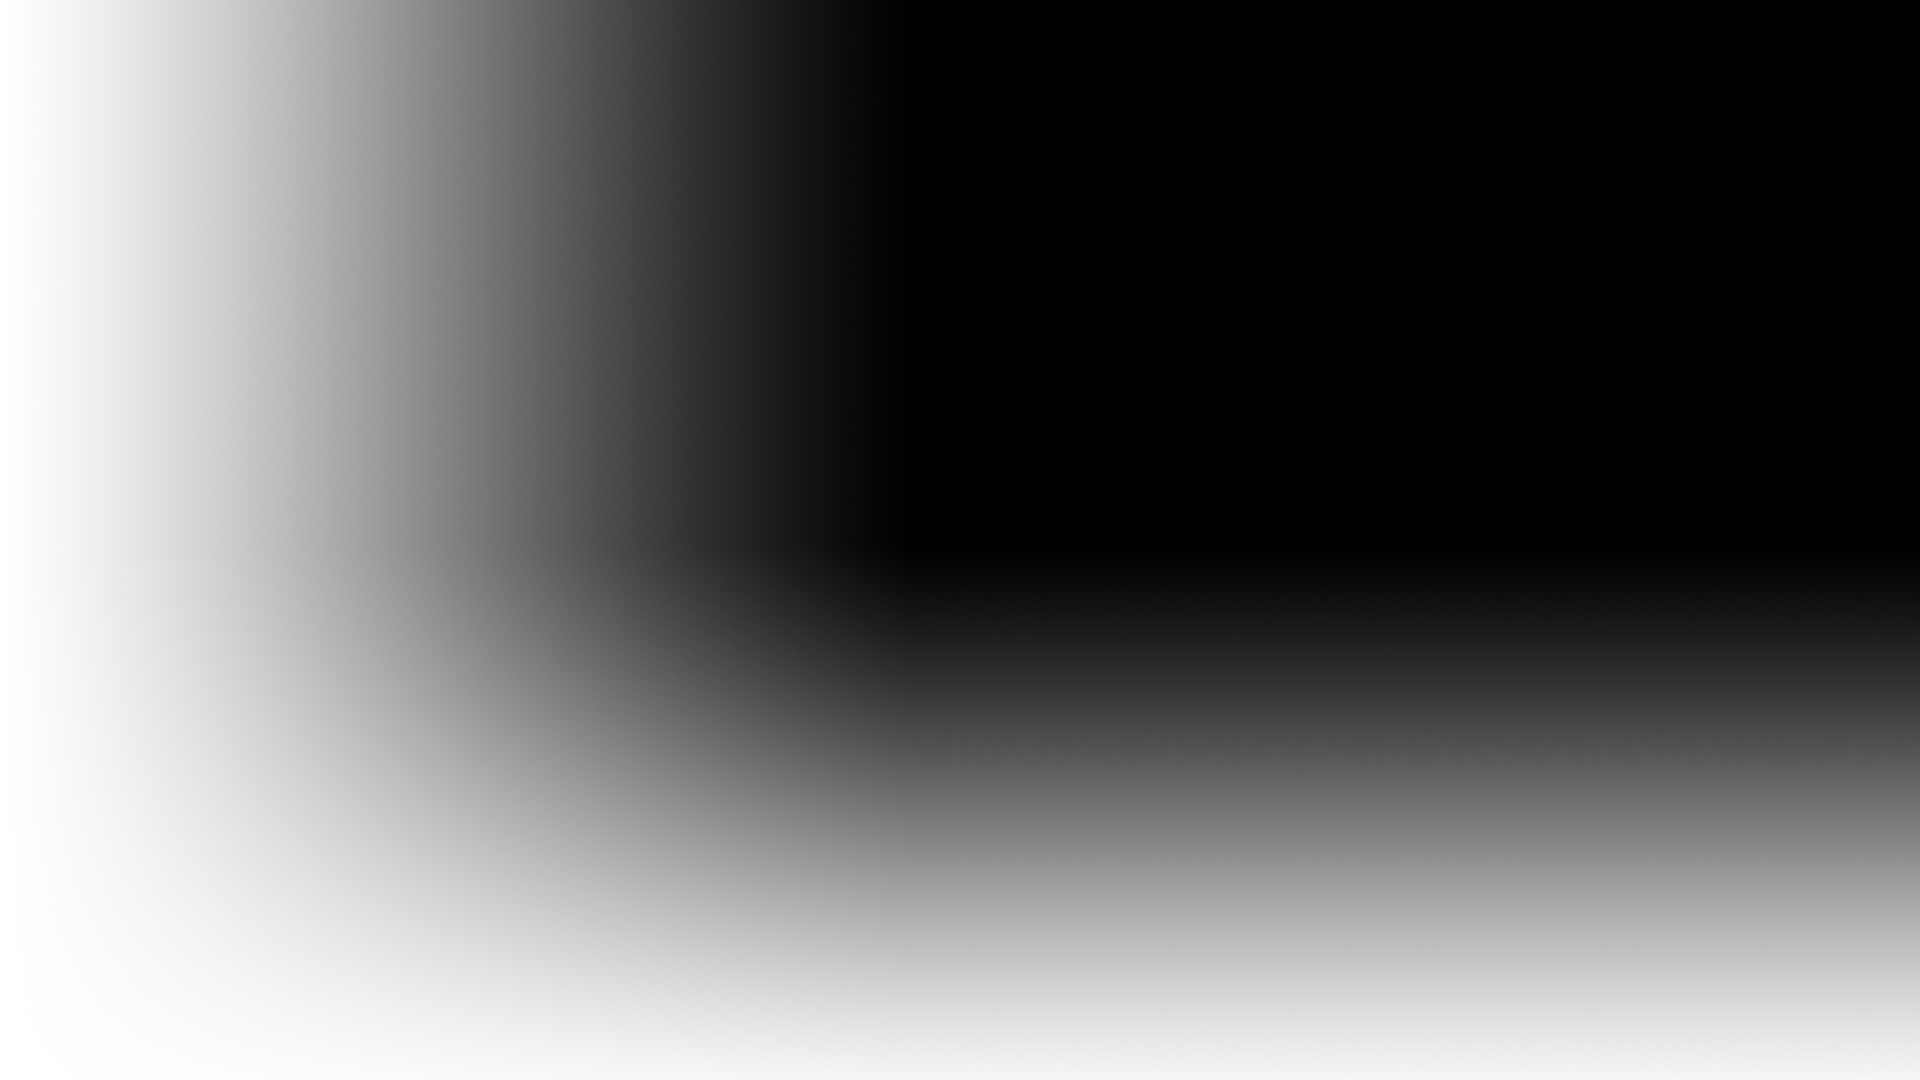
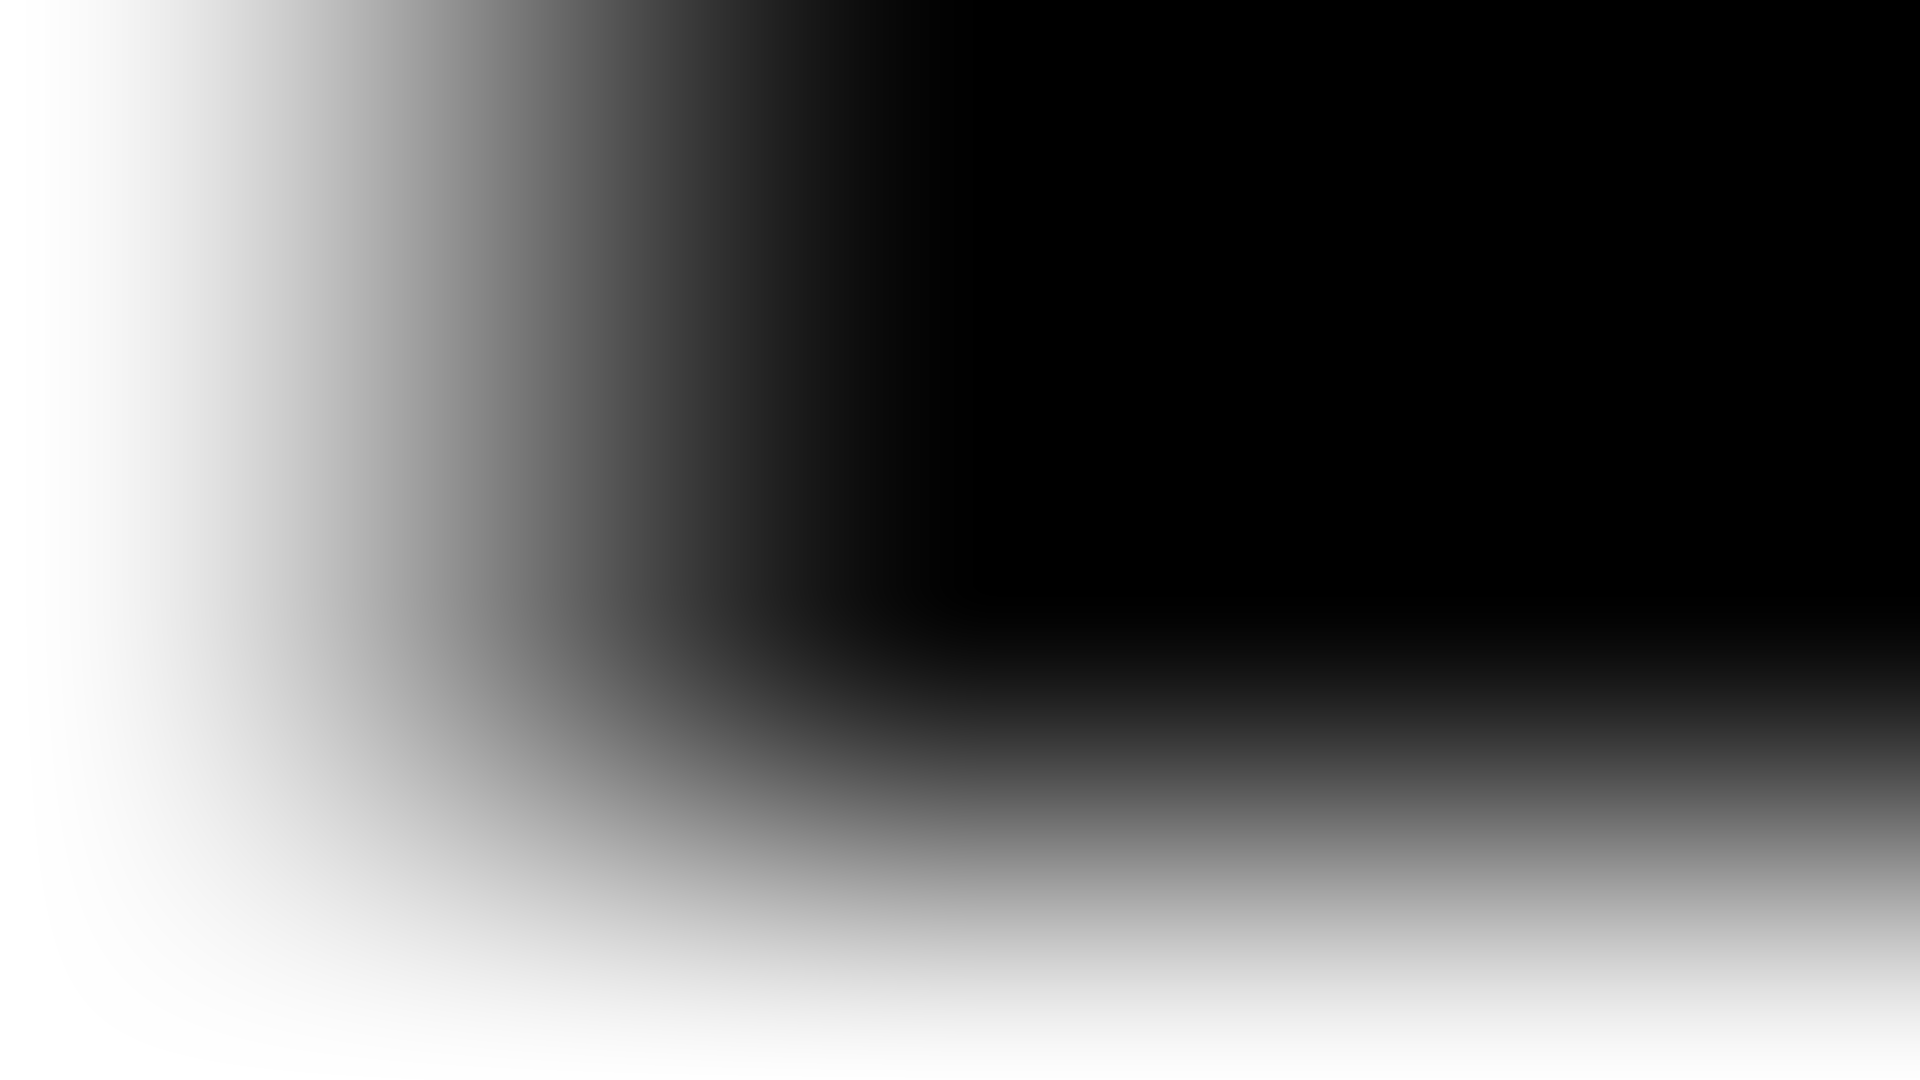
Own trailer mask (tools/make_trailer_mask.py) replacing Aniki ReMake's; credit removed

Changed region(s): [[0.5, 0.6111, 1.0, 0.6722]]

diff --git a/tools/make_trailer_mask.py b/tools/make_trailer_mask.py
@@ -1,0 +1,32 @@
+#!/usr/bin/env python3
+"""Draws theme/Images/TrailerMask.png: the opacity mask over the trailers behind Collection and a Store game's page.
+
+Clear at the left (where the logo and words sit), fully shown from about the middle, and fading out toward the bottom
+(the covers' row). Only the alpha matters: the theme uses it as an OpacityMask. Run: python3 tools/make_trailer_mask.py
+"""
+from pathlib import Path
+
+from PIL import Image
+
+W, H = 1920, 1080
+OUT = Path(__file__).resolve().parent.parent / "theme" / "Images" / "TrailerMask.png"
+
+
+def smooth(edge0, edge1, x):
+    t = min(1.0, max(0.0, (x - edge0) / (edge1 - edge0)))
+    return t * t * (3 - 2 * t)
+
+
+def main():
+    across = [smooth(0.0, 0.52, x / (W - 1)) for x in range(W)]
+    down = [1 - smooth(0.54, 1.02, y / (H - 1)) for y in range(H)]
+    alpha = Image.new("L", (W, H))
+    alpha.putdata([round(255 * a * d) for d in down for a in across])
+    mask = Image.new("RGBA", (W, H), (0, 0, 0, 0))
+    mask.putalpha(alpha)
+    mask.save(OUT, optimize=True)
+    print(f"wrote {OUT}")
+
+
+if __name__ == "__main__":
+    main()

diff --git a/SeleneCore/src/LibraryStage.cs b/SeleneCore/src/LibraryStage.cs
@@ -44,7 +44,7 @@ namespace Selene
             baseLayer = HomeNav.FindByName(library, "SeleneLibraryBase") as UIElement;
             HomeNav.Log("library stage: art " + (art != null) + ", wallpaper " + (wallpaper != null));
             if (list == null || library == null || host == null) { HomeNav.Log("library stage: parts not found"); list = null; return; }
-            arm = new DispatcherTimer { Interval = TimeSpan.FromMilliseconds(4000) };   // like Aniki: the art first, the trailer about 4 s in
+            arm = new DispatcherTimer { Interval = TimeSpan.FromMilliseconds(4000) };   // the art first, the trailer about 4 s in
             arm.Tick += (s, e) => { arm.Stop(); Play(); };
             list.SelectionChanged += (s, e) =>
             {

diff --git a/CHANGELOG.md b/CHANGELOG.md
@@ -4,6 +4,7 @@ Selene (theme) and Selene Core (add-on) share one version number and are release
 
 ## Unreleased
 
+- The trailer fade behind Collection and the Store is Selene's own now (`tools/make_trailer_mask.py`); nothing from the Aniki ReMake theme is left.
 - HowLongToBeat times come in: Selene's lookup went through the add-on's "pick the right game" window, which only exists in desktop mode, so in fullscreen it never found a game. It now uses the add-on's automatic match, for the game you rest on in Spotlight, Collection or its page.
 - New installs look like the screenshots in more places: the game menu, dialogs and Playnite's settings use Selene's font; the closing screen shows the game's art (it was black); the loading screen shows the game's name when it has no logo; Achievements shows covers instead of tiny icons.
 - Sleep sleeps (without the optional helper it could hibernate on PCs with hibernation on).

diff --git a/THIRD-PARTY-NOTICES.md b/THIRD-PARTY-NOTICES.md
@@ -36,9 +36,6 @@ The profile pictures in `theme/Avatars` are Xbox gamer pictures from Microsoft's
 (`<pack>-<number>.jpg` matches the original file names). They remain the property of Microsoft and the respective
 game publishers and are not covered by Selene's MIT license. Rights holders can ask for removal by opening an issue.
 
-## Collection trailer mask
-`theme/Images/TrailerMask.png` comes from the Aniki ReMake theme (its trailer mask), used as is.
-
 ## Background video
 `theme/Media/selene-background.mp4` is the looping background from the maintainer's legacy setup (origin not recorded); it will be replaced if asked.
 
